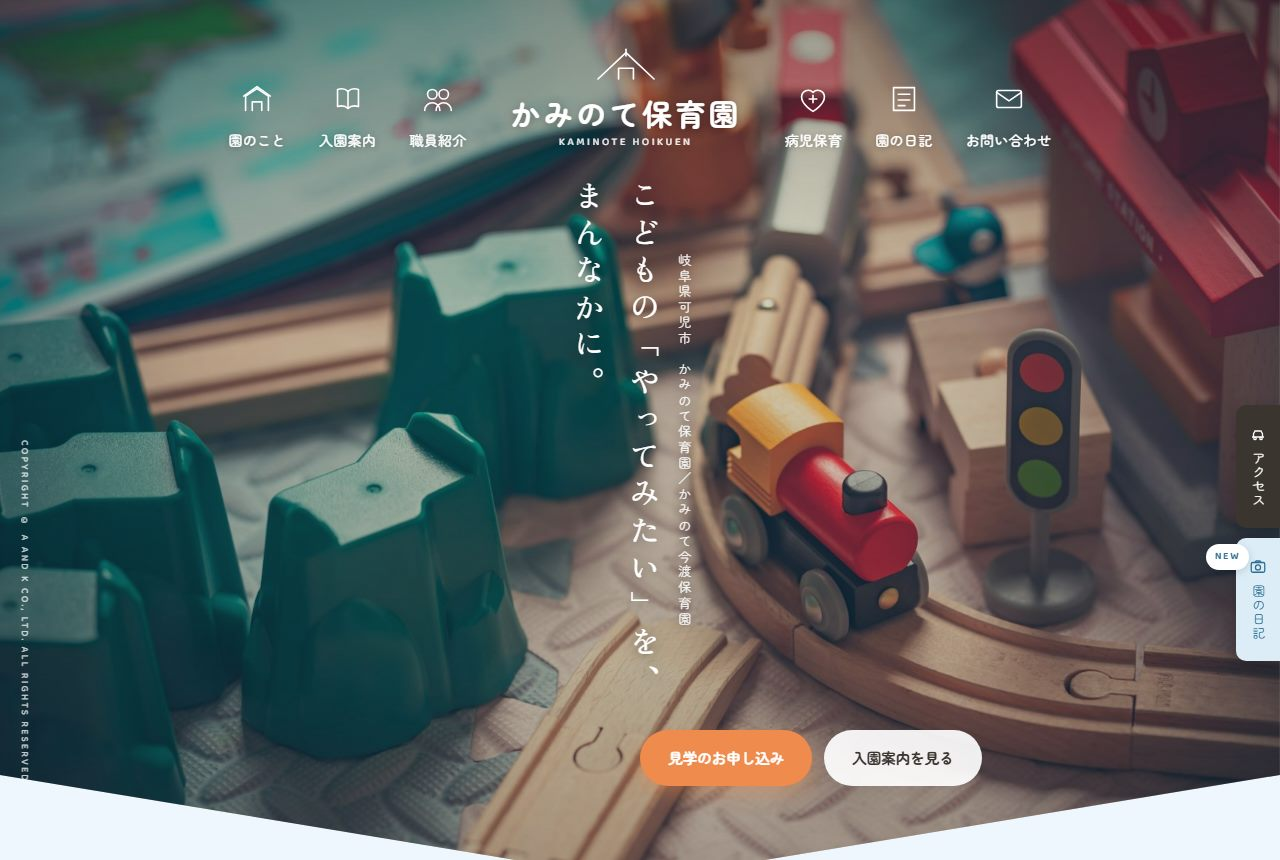
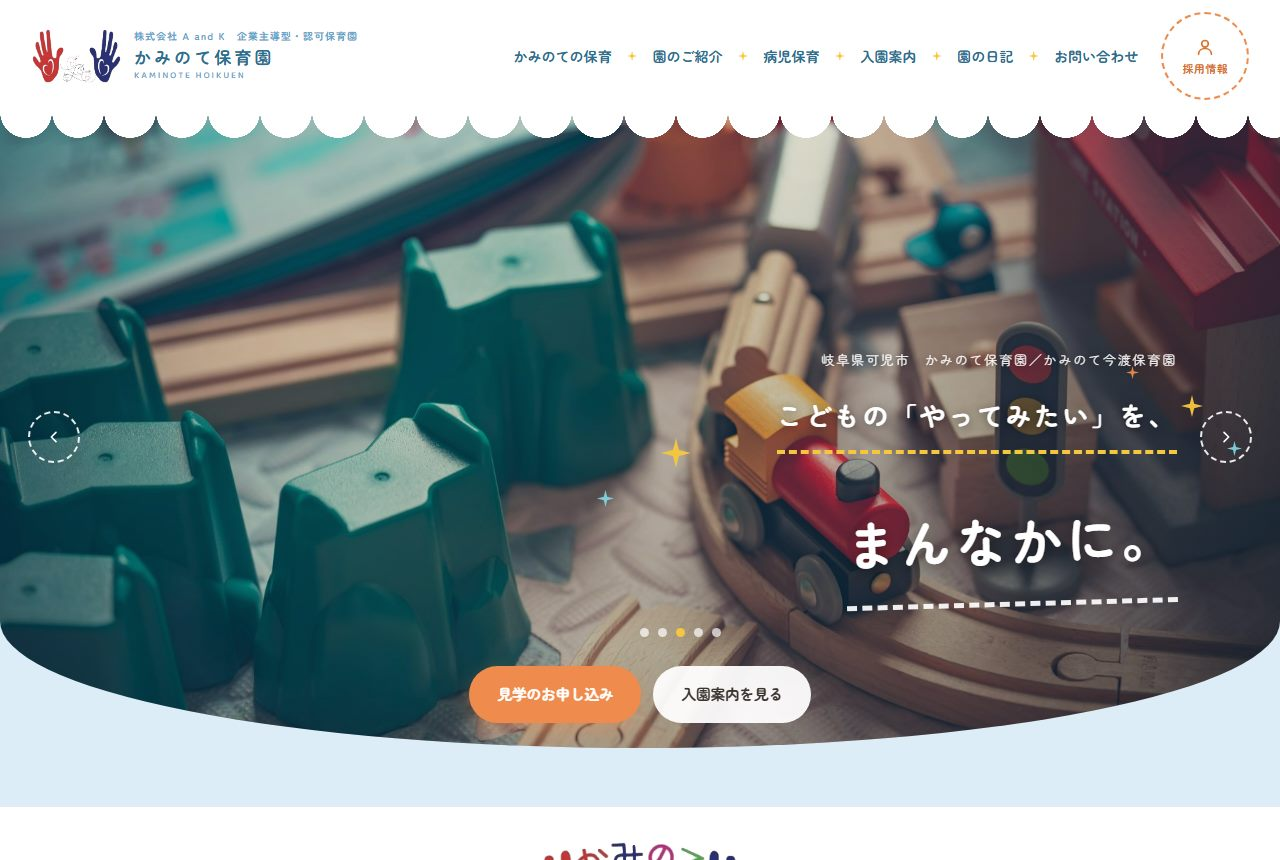
案Cの作り直しに合わせて、キャプチャと説明を更新する

diff --git a/design.html b/design.html
@@ -615,7 +615,7 @@
       <div class="mock">
         <div class="mock-head">
           <h3>保育園サイト　案C</h3>
-          <span class="mock-tone">縦書きと全画面写真</span>
+          <span class="mock-tone">白い帯と、弧で切った写真</span>
         </div>
         <a class="shot" href="https://k-matsumoto527.github.io/kaminote-design/plan-c.html" target="_blank" rel="noopener">
           <img src="img/preview-c.jpg" alt="保育園サイト トップページ デザイン案C" width="1280" height="860" loading="lazy">
@@ -624,10 +624,11 @@
         <div class="open-url">https://k-matsumoto527.github.io/kaminote-design/plan-c.html</div>
       </div>
 
-      <p style="margin:2.4rem 0 1.4rem"><strong>放課後等デイサイトも、同じ3つの方向で3案お作りしました。</strong>
+      <p style="margin:2.4rem 0 1.4rem"><strong>放課後等デイサイトも3案お作りしました。</strong>
       かみのてKIDSとかみのてSMILEを1つのサイトにまとめ、ご要望の<strong>パステルグリーン</strong>はどの案でも主色にしています。
       <strong>支援プログラム・自己評価・保護者評価の公表欄</strong>も3案とも入れてあります。
-      保育園サイトと同じ案（AならA）でそろえると、2つのサイトが並んだときにいちばん統一して見えます。</p>
+      案A・案Bは保育園サイトと同じ方向でお作りしていますので、<strong>同じ案でそろえると2つのサイトが並んだときにいちばん統一して見えます</strong>
+      （案Cだけは、保育園サイトを作り直したため2つのサイトで見た目が異なります）。</p>
 
       <p style="margin:0 0 1.4rem">いただいた<strong>かみのてKIDS・かみのてSMILEのロゴ</strong>も、3案とも使っています。
       写真はいずれも見本です。取材時に撮影したお写真へ差し替えます。</p>

diff --git a/src/design-kaminote.html b/src/design-kaminote.html
@@ -592,7 +592,7 @@
       <div class="mock">
         <div class="mock-head">
           <h3>保育園サイト　案C</h3>
-          <span class="mock-tone">縦書きと全画面写真</span>
+          <span class="mock-tone">白い帯と、弧で切った写真</span>
         </div>
         <a class="shot" href="https://k-matsumoto527.github.io/kaminote-design/plan-c.html" target="_blank" rel="noopener">
           <img src="img/preview-c.jpg" alt="保育園サイト トップページ デザイン案C" width="1280" height="860" loading="lazy">
@@ -601,10 +601,11 @@
         <div class="open-url">https://k-matsumoto527.github.io/kaminote-design/plan-c.html</div>
       </div>
 
-      <p style="margin:2.4rem 0 1.4rem"><strong>放課後等デイサイトも、同じ3つの方向で3案お作りしました。</strong>
+      <p style="margin:2.4rem 0 1.4rem"><strong>放課後等デイサイトも3案お作りしました。</strong>
       かみのてKIDSとかみのてSMILEを1つのサイトにまとめ、ご要望の<strong>パステルグリーン</strong>はどの案でも主色にしています。
       <strong>支援プログラム・自己評価・保護者評価の公表欄</strong>も3案とも入れてあります。
-      保育園サイトと同じ案（AならA）でそろえると、2つのサイトが並んだときにいちばん統一して見えます。</p>
+      案A・案Bは保育園サイトと同じ方向でお作りしていますので、<strong>同じ案でそろえると2つのサイトが並んだときにいちばん統一して見えます</strong>
+      （案Cだけは、保育園サイトを作り直したため2つのサイトで見た目が異なります）。</p>
 
       <p style="margin:0 0 1.4rem">いただいた<strong>かみのてKIDS・かみのてSMILEのロゴ</strong>も、3案とも使っています。
       写真はいずれも見本です。取材時に撮影したお写真へ差し替えます。</p>
